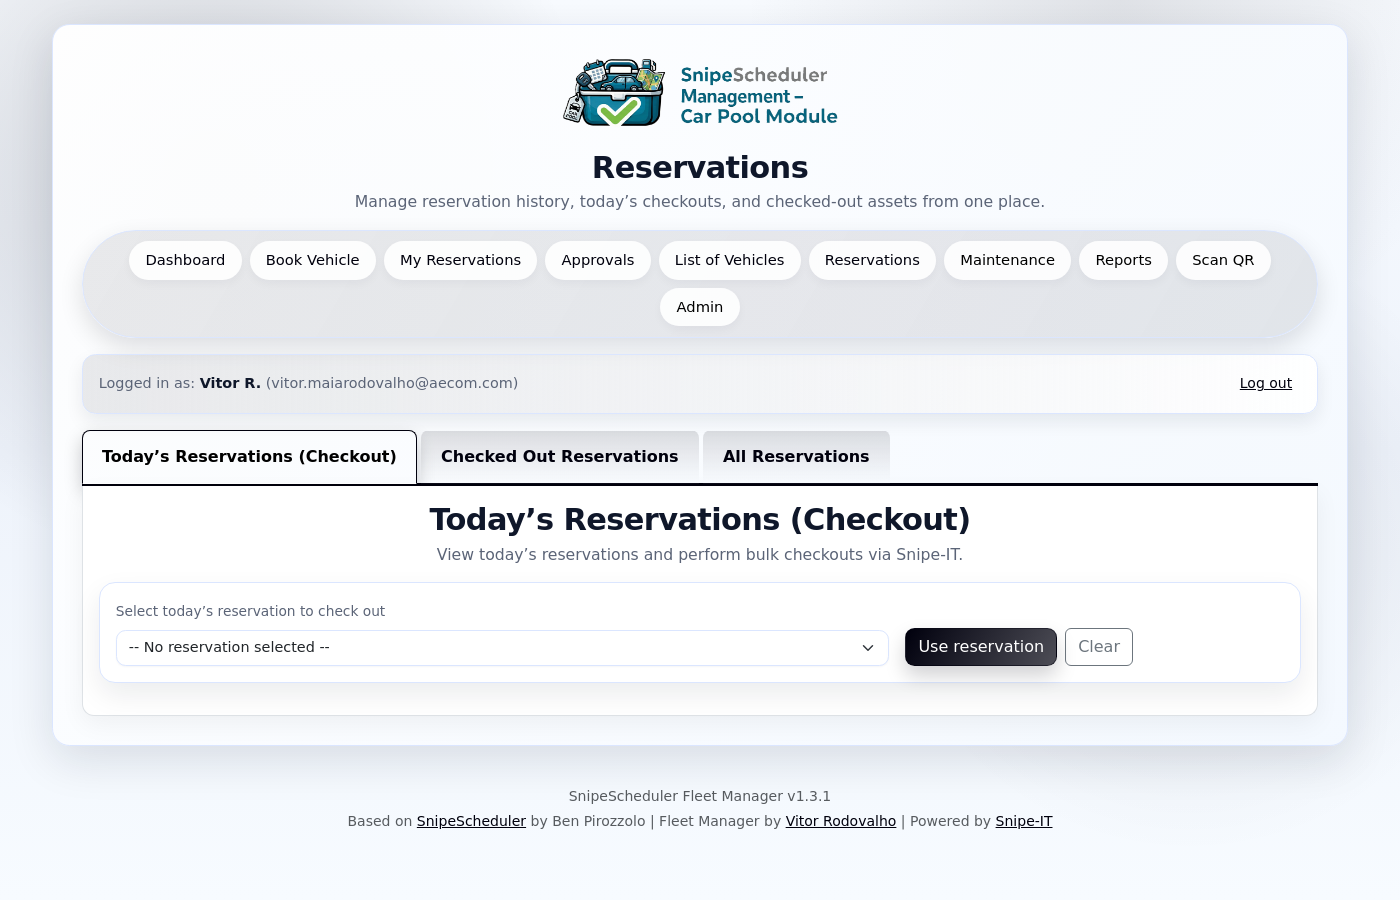
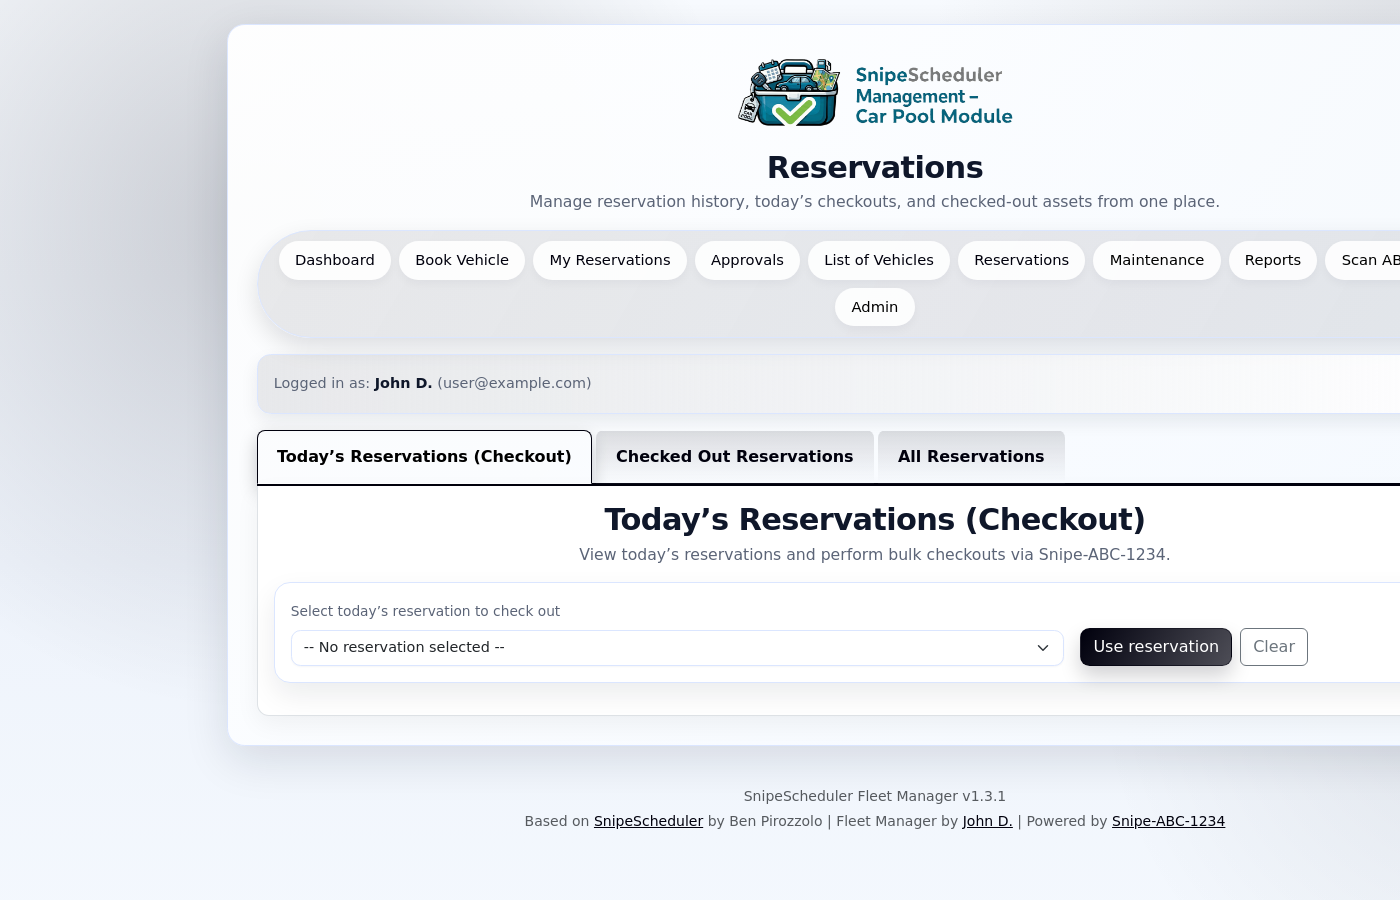
Update screenshots: 75% zoom, improved anonymization
- Increased viewport to capture more content
- Better name/email anonymization
- Replaced all personal data with generic placeholders

diff --git a/scripts/take-screenshots.js b/scripts/take-screenshots.js
@@ -1,10 +1,6 @@
 /**
  * Automated Screenshot Generator for SnipeScheduler FleetManager
- * 
- * Usage: 
- *   node take-screenshots.js --session=<session_id>
- * 
- * Get session_id from browser cookies after logging in manually
+ * v2 - Improved anonymization and 67% zoom
  */
 
 const puppeteer = require('puppeteer');
@@ -14,94 +10,124 @@ const path = require('path');
 const BASE_URL = 'https://inventory.amtrakfdt.com/booking';
 const SCREENSHOT_DIR = path.join(__dirname, '../docs/screenshots');
 
-// Pages to screenshot with access levels
 const PAGES = [
-    { name: 'login', path: '/login', auth: false, description: 'Login page' },
-    { name: 'dashboard', path: '/dashboard', auth: true, description: 'Main dashboard' },
-    { name: 'vehicle_catalogue', path: '/vehicle_catalogue', auth: true, description: 'Vehicle catalogue' },
-    { name: 'vehicle_reserve', path: '/vehicle_reserve', auth: true, description: 'Book vehicle form' },
-    { name: 'my_bookings', path: '/my_bookings', auth: true, description: 'My reservations' },
-    { name: 'approval', path: '/approval', auth: true, staff: true, description: 'Approval queue' },
-    { name: 'reservations', path: '/reservations', auth: true, staff: true, description: 'All reservations' },
-    { name: 'maintenance', path: '/maintenance', auth: true, staff: true, description: 'Maintenance log' },
-    { name: 'reports', path: '/reports', auth: true, staff: true, description: 'Reports' },
-    { name: 'vehicles', path: '/vehicles', auth: true, admin: true, description: 'Vehicle management' },
-    { name: 'users', path: '/users', auth: true, admin: true, description: 'User management' },
-    { name: 'notifications', path: '/notifications', auth: true, admin: true, description: 'Email notifications' },
-    { name: 'announcements', path: '/announcements', auth: true, admin: true, description: 'Announcements' },
-    { name: 'security', path: '/security', auth: true, superadmin: true, description: 'Security dashboard' },
-    { name: 'settings', path: '/settings', auth: true, superadmin: true, description: 'System settings' },
+    { name: 'login', path: '/login', auth: false },
+    { name: 'dashboard', path: '/dashboard', auth: true },
+    { name: 'vehicle_catalogue', path: '/vehicle_catalogue', auth: true },
+    { name: 'vehicle_reserve', path: '/vehicle_reserve', auth: true },
+    { name: 'my_bookings', path: '/my_bookings', auth: true },
+    { name: 'approval', path: '/approval', auth: true },
+    { name: 'reservations', path: '/reservations', auth: true },
+    { name: 'maintenance', path: '/maintenance', auth: true },
+    { name: 'reports', path: '/reports', auth: true },
+    { name: 'vehicles', path: '/vehicles', auth: true },
+    { name: 'users', path: '/users', auth: true },
+    { name: 'notifications', path: '/notifications', auth: true },
+    { name: 'announcements', path: '/announcements', auth: true },
+    { name: 'security', path: '/security', auth: true },
+    { name: 'settings', path: '/settings', auth: true },
 ];
 
-// CSS to inject for anonymization
-const ANONYMIZE_CSS = `
-    /* Hide/blur sensitive data */
-    .user-email, 
-    [data-email],
-    td:contains('@'),
-    .email-column {
-        filter: blur(4px) !important;
-    }
-    
-    /* Blur last names (keep first name) */
-    .user-name::after {
-        content: '' !important;
-    }
-    
-    /* Blur VIN numbers */
-    [data-field="vin"],
-    td[data-vin] {
-        filter: blur(4px) !important;
-    }
-    
-    /* Blur license plates */
-    [data-field="license"],
-    .license-plate {
-        filter: blur(4px) !important;
-    }
-    
-    /* Hide specific backup log content */
-    .backup-log pre {
-        filter: blur(2px) !important;
-    }
-`;
+// Anonymization patterns
+const ANONYMIZE_PATTERNS = [
+    // Email patterns - replace with generic
+    { pattern: /[a-zA-Z0-9._%+-]+@[a-zA-Z0-9.-]+\.[a-zA-Z]{2,}/g, replacement: 'user@example.com' },
+    // VIN (17 alphanumeric, no I, O, Q)
+    { pattern: /\b[A-HJ-NPR-Z0-9]{17}\b/g, replacement: '1HGBH41JXMN######' },
+    // Phone numbers
+    { pattern: /\b\d{3}[-.\s]?\d{3}[-.\s]?\d{4}\b/g, replacement: '(555) 555-0000' },
+    // License plates (various formats)
+    { pattern: /\b[A-Z0-9]{1,3}[-\s]?[A-Z0-9]{1,4}\b/g, replacement: 'ABC-1234' },
+];
 
-// JavaScript to run on page for anonymization
-const ANONYMIZE_JS = `
-    // Anonymize emails
-    document.querySelectorAll('*').forEach(el => {
-        if (el.children.length === 0 && el.textContent) {
-            // Email pattern
-            el.textContent = el.textContent.replace(
-                /[a-zA-Z0-9._%+-]+@[a-zA-Z0-9.-]+\.[a-zA-Z]{2,}/g, 
-                'user@example.com'
-            );
-            // VIN pattern (17 chars)
-            el.textContent = el.textContent.replace(
-                /\\b[A-HJ-NPR-Z0-9]{17}\\b/g, 
-                '1HGBH41JXMN######'
-            );
-            // Phone numbers
-            el.textContent = el.textContent.replace(
-                /\\b\\d{3}[-.]?\\d{3}[-.]?\\d{4}\\b/g, 
-                '(555) 555-####'
-            );
-        }
-    });
-    
-    // Anonymize last names (keep first name, replace last with initial)
-    document.querySelectorAll('.top-bar-user strong, .user-name').forEach(el => {
-        const parts = el.textContent.trim().split(' ');
-        if (parts.length >= 2) {
-            el.textContent = parts[0] + ' ' + parts[1][0] + '.';
-        }
-    });
-`;
+// Names to anonymize (add your actual names here)
+const NAMES_TO_REPLACE = [
+    // Format: [fullName, replacement]
+    ['Vitor Rodovalho', 'John D.'],
+    ['Rodovalho', 'Doe'],
+    ['Vitor', 'John'],
+    // Add more names as needed
+];
 
-async function takeScreenshots(sessionId) {
-    console.log('Starting screenshot capture...');
+async function anonymizePage(page) {
+    await page.evaluate((patterns, names) => {
+        // Function to walk all text nodes
+        function walkTextNodes(node, callback) {
+            if (node.nodeType === Node.TEXT_NODE) {
+                callback(node);
+            } else {
+                for (let child of node.childNodes) {
+                    walkTextNodes(child, callback);
+                }
+            }
+        }
+
+        // Anonymize text content
+        walkTextNodes(document.body, (textNode) => {
+            let text = textNode.textContent;
+            
+            // Replace names first (longer names first to avoid partial matches)
+            for (const [name, replacement] of names) {
+                const regex = new RegExp(name.replace(/[.*+?^${}()|[\]\\]/g, '\\$&'), 'gi');
+                text = text.replace(regex, replacement);
+            }
+            
+            // Replace patterns
+            for (const p of patterns) {
+                const regex = new RegExp(p.pattern, p.flags || 'g');
+                text = text.replace(regex, p.replacement);
+            }
+            
+            if (text !== textNode.textContent) {
+                textNode.textContent = text;
+            }
+        });
+
+        // Also anonymize input values
+        document.querySelectorAll('input, textarea').forEach(el => {
+            let val = el.value;
+            for (const [name, replacement] of names) {
+                const regex = new RegExp(name.replace(/[.*+?^${}()|[\]\\]/g, '\\$&'), 'gi');
+                val = val.replace(regex, replacement);
+            }
+            for (const p of patterns) {
+                const regex = new RegExp(p.pattern, p.flags || 'g');
+                val = val.replace(regex, p.replacement);
+            }
+            if (val !== el.value) {
+                el.value = val;
+            }
+        });
+
+        // Anonymize table cells specifically
+        document.querySelectorAll('td, th').forEach(cell => {
+            let html = cell.innerHTML;
+            for (const [name, replacement] of names) {
+                const regex = new RegExp(name.replace(/[.*+?^${}()|[\]\\]/g, '\\$&'), 'gi');
+                html = html.replace(regex, replacement);
+            }
+            for (const p of patterns) {
+                const regex = new RegExp(p.pattern, p.flags || 'g');
+                html = html.replace(regex, p.replacement);
+            }
+            if (html !== cell.innerHTML) {
+                cell.innerHTML = html;
+            }
+        });
+
+    }, ANONYMIZE_PATTERNS.map(p => ({
+        pattern: p.pattern.source,
+        flags: p.pattern.flags,
+        replacement: p.replacement
+    })), NAMES_TO_REPLACE);
+}
+
+async function takeScreenshots(sessionId, extraNames = []) {
+    console.log('Starting screenshot capture (v2 - 67% zoom, improved anonymization)...\n');
     
-    // Ensure screenshot directory exists
+    // Add extra names to anonymize
+    const allNames = [...NAMES_TO_REPLACE, ...extraNames];
+    
     if (!fs.existsSync(SCREENSHOT_DIR)) {
         fs.mkdirSync(SCREENSHOT_DIR, { recursive: true });
     }
@@ -113,10 +139,26 @@ async function takeScreenshots(sessionId) {
     
     const page = await browser.newPage();
     
-    // Set viewport
-    await page.setViewport({ width: 1400, height: 900 });
+    // Set larger viewport for 67% zoom effect (captures more content)
+    // 1400x900 at 100% = 1750x1125 at 67%
+    await page.setViewport({ 
+        width: 1750, 
+        height: 1125,
+        deviceScaleFactor: 1
+    });
     
-    // Set session cookie if provided
+    // Set CSS zoom to 67%
+    await page.evaluateOnNewDocument(() => {
+        const style = document.createElement('style');
+        style.textContent = `
+            html { 
+                zoom: 0.67 !important; 
+            }
+        `;
+        document.head.appendChild(style);
+    });
+    
+    // Set session cookie
     if (sessionId) {
         await page.setCookie({
             name: 'PHPSESSID',
@@ -126,33 +168,25 @@ async function takeScreenshots(sessionId) {
             httpOnly: true,
             secure: true
         });
-        console.log('Session cookie set');
+        console.log('Session cookie set\n');
     }
-    
-    // Add anonymization CSS
-    await page.evaluateOnNewDocument((css) => {
-        const style = document.createElement('style');
-        style.textContent = css;
-        document.head.appendChild(style);
-    }, ANONYMIZE_CSS);
     
     for (const pageInfo of PAGES) {
         try {
             const url = BASE_URL + pageInfo.path;
-            console.log(`Capturing: ${pageInfo.name} (${url})`);
+            console.log(`Capturing: ${pageInfo.name}`);
             
             await page.goto(url, { waitUntil: 'networkidle2', timeout: 30000 });
             
             // Wait for page to fully render
-            await page.waitForTimeout(1000);
+            await new Promise(r => setTimeout(r, 1500));
             
-            // Run anonymization script
+            // Run anonymization
             if (pageInfo.auth) {
-                await page.evaluate(ANONYMIZE_JS);
+                await anonymizePage(page);
+                // Wait for DOM changes
+                await new Promise(r => setTimeout(r, 500));
             }
-            
-            // Wait a bit for changes to apply
-            await page.waitForTimeout(500);
             
             // Take screenshot
             const filename = `${pageInfo.name}.png`;
@@ -160,46 +194,61 @@ async function takeScreenshots(sessionId) {
             
             await page.screenshot({ 
                 path: filepath, 
-                fullPage: false // Just viewport, not full page
+                fullPage: false,
+                clip: {
+                    x: 0,
+                    y: 0,
+                    width: 1400,  // Output at standard width
+                    height: 900
+                }
             });
             
             console.log(`  ✓ Saved: ${filename}`);
             
         } catch (error) {
-            console.error(`  ✗ Error capturing ${pageInfo.name}: ${error.message}`);
+            console.error(`  ✗ Error: ${error.message}`);
         }
     }
     
     await browser.close();
-    console.log('\nScreenshot capture complete!');
+    console.log('\n✅ Screenshot capture complete!');
     console.log(`Screenshots saved to: ${SCREENSHOT_DIR}`);
 }
 
-// Parse command line arguments
+// Parse arguments
 const args = process.argv.slice(2);
 let sessionId = null;
+let extraNames = [];
 
 for (const arg of args) {
     if (arg.startsWith('--session=')) {
         sessionId = arg.split('=')[1];
     }
+    if (arg.startsWith('--names=')) {
+        // Format: --names="FirstName LastName:Replacement,AnotherName:Rep2"
+        const namesStr = arg.split('=')[1];
+        namesStr.split(',').forEach(pair => {
+            const [name, rep] = pair.split(':');
+            if (name && rep) {
+                extraNames.push([name.trim(), rep.trim()]);
+            }
+        });
+    }
 }
 
 if (!sessionId) {
     console.log(`
-Usage: node take-screenshots.js --session=<PHPSESSID>
+Usage: node take-screenshots.js --session=<PHPSESSID> [--names="Name1:Rep1,Name2:Rep2"]
 
-To get your session ID:
-1. Log in to the application in your browser
-2. Open Developer Tools (F12)
-3. Go to Application > Cookies
-4. Find PHPSESSID and copy its value
-5. Run this script with that value
+Options:
+  --session=XXX     Your PHP session ID (required)
+  --names="..."     Additional names to anonymize (optional)
+                    Format: "Full Name:Replacement,Another:Rep2"
 
 Example:
-  node take-screenshots.js --session=abc123def456
+  node take-screenshots.js --session=abc123 --names="John Smith:User A,Jane Doe:User B"
 `);
     process.exit(1);
 }
 
-takeScreenshots(sessionId);
+takeScreenshots(sessionId, extraNames);
